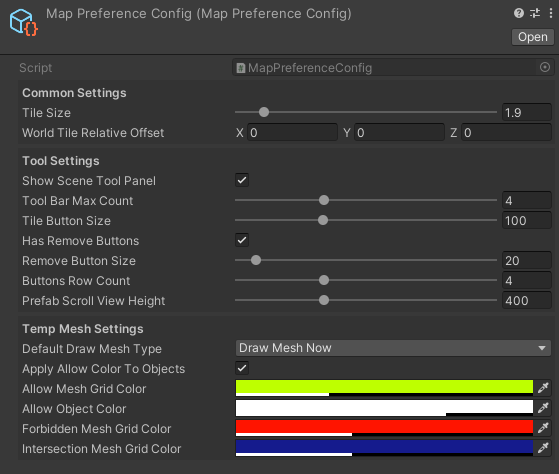
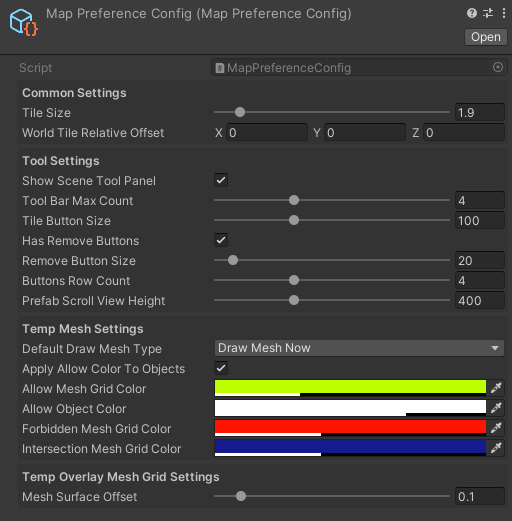
update

diff --git a/docs/source/modes.rst b/docs/source/modes.rst
@@ -235,7 +235,21 @@ Line mode
 			
 		|
 		.. image:: images/modes/LineMode/LineModeTab4.png
-		`Fixed line example.`
+		`Fixed line example (randomizer enabled).`		
+		|
+		
+		.. image:: images/modes/LineMode/LineEdgeSettings.png
+		* **Free/Fixed edge settings (movement type `snap edge` should be enabled in the `overlay tab`)** 
+			* **Snap every edge** : object will be placed on each cell edge on the line.
+			* **Add edge side offset* : adds an offset to the side of the line.
+				* **Edge relative point* : point relative to which the offset will be applied to the side.
+				* **Edge side offset* : offset value to the side.
+			
+		|
+		
+		.. image:: images/modes/LineMode/LineEdgeExample.png
+		`Fixed line example (randomizer with pattern (01) enabled; snap edge enabled; edge side offset (0.5)).`		
+		|
 		
 		.. note::
 			`Snap same floor` feature for auto-snap available.

diff --git a/docs/source/gettingstarted.rst b/docs/source/gettingstarted.rst
@@ -156,6 +156,9 @@ Here are references to the maps and the name of the layers.
 	* **Allow Object Color** : color for the object that can be placed.
 	* **Forbidden Mesh Grid Color** : color for the object that can't be placed.
 	* **Intersection Mesh Grid Color** : color for the object that intersected.
+	
+* Temp Overlay Mesh Grid Settings
+	* **Mesh Surface Offset** : offset from the surface for the mesh grid.
 
 **Common Settings**
 -------------------
